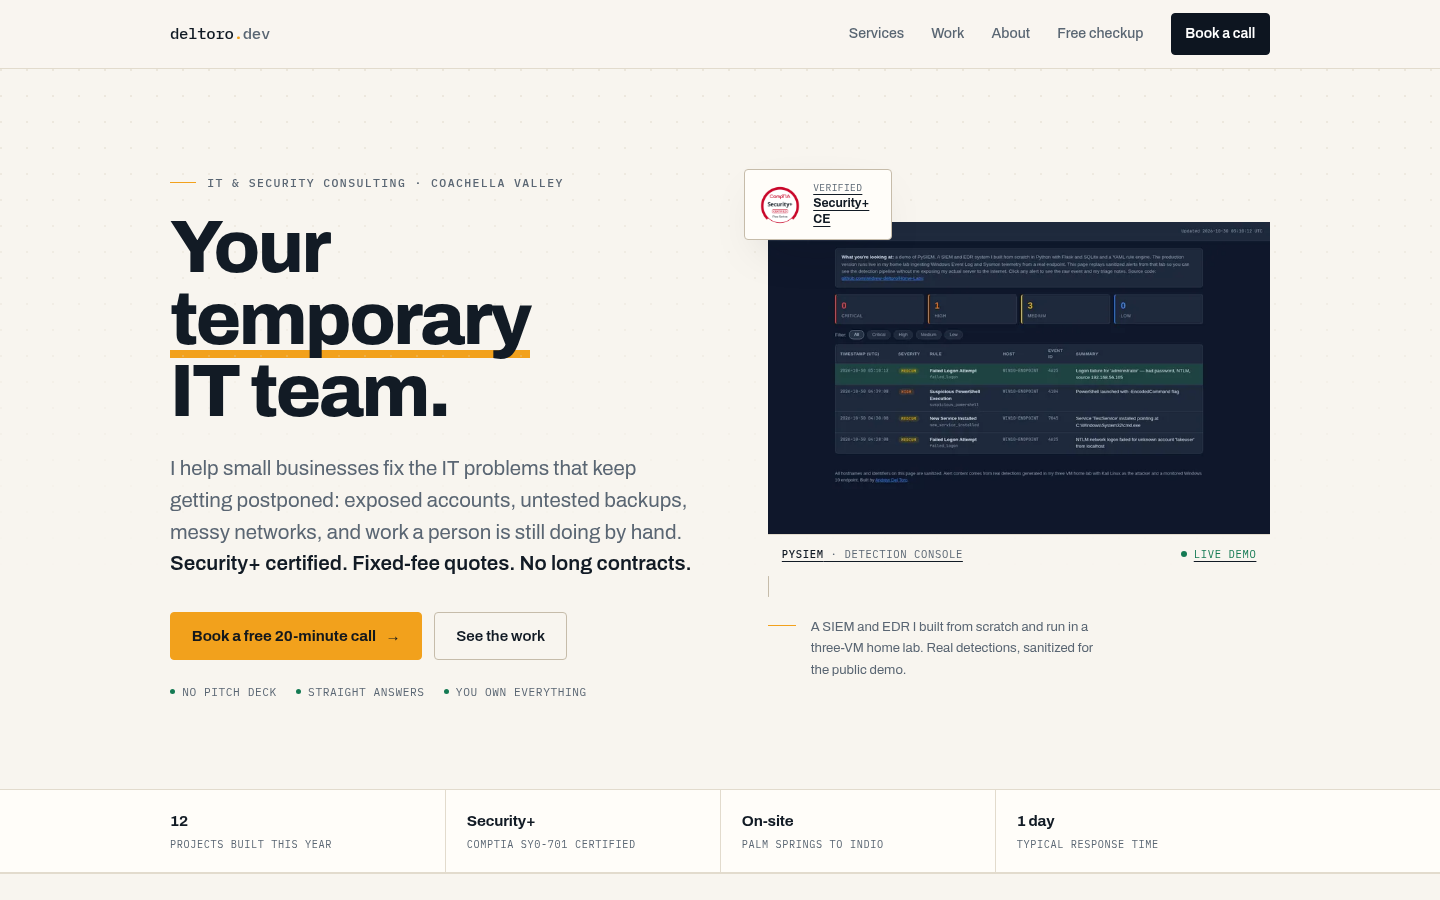
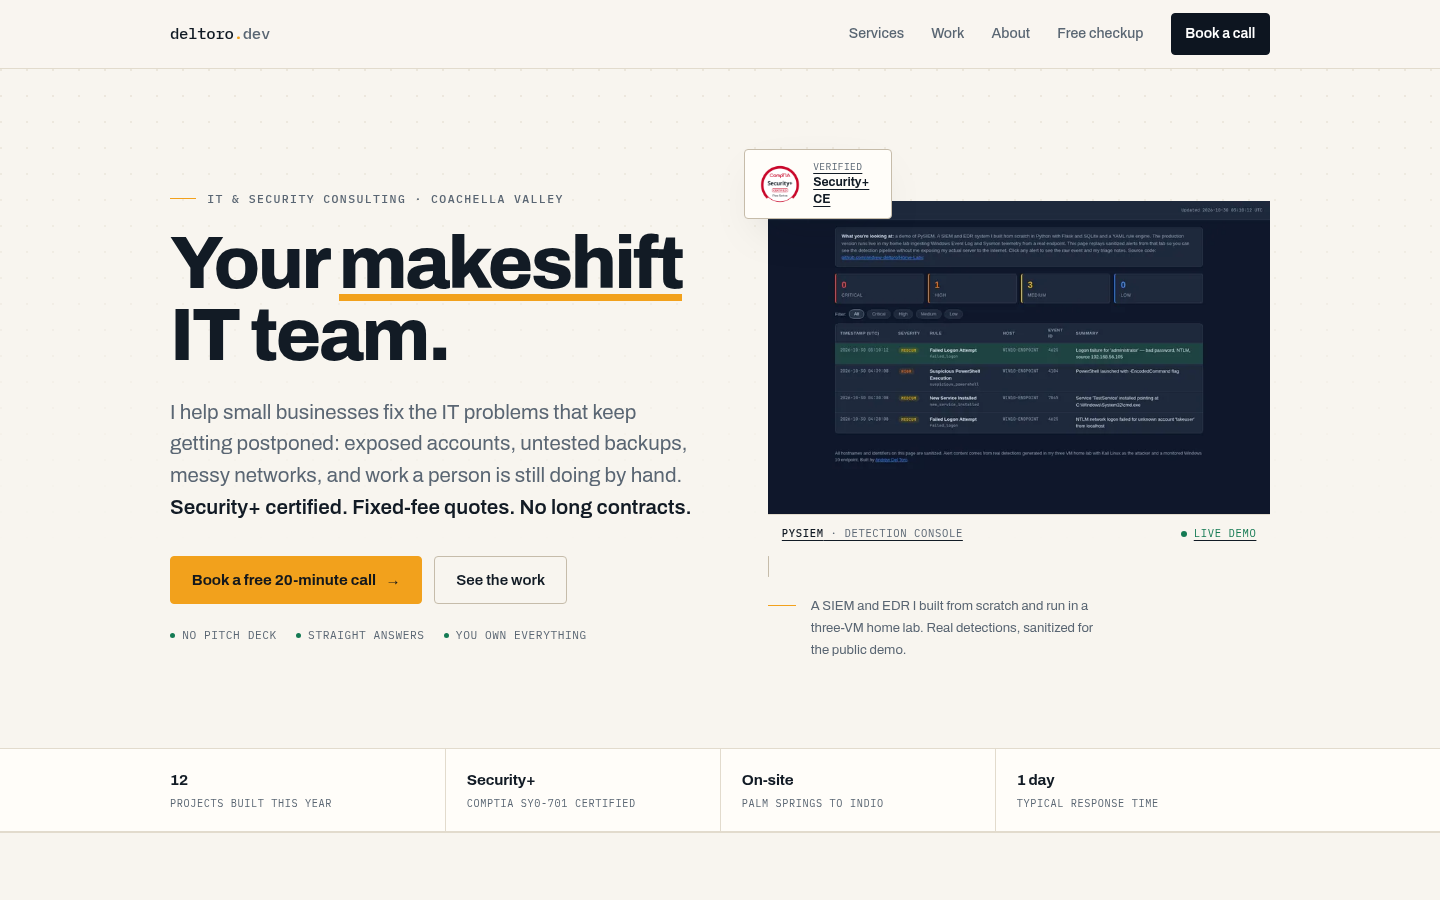
Switch hero to makeshift and document Brave session reuse

diff --git a/src/pages/llms-full.txt.ts b/src/pages/llms-full.txt.ts
@@ -23,7 +23,7 @@ export const GET: APIRoute = async () => {
     '',
     'Andrew Del Toro is a solo IT and security consultant in the Coachella Valley. He works with small businesses (roughly 1–50 people) that have no IT department, or an IT team that is already stretched. Engagements are fixed-fee, quoted in writing after a free 20-minute call. Clients keep ownership of accounts, documentation, and repositories.',
     '',
-    'He works alongside existing IT teams when they exist, and acts as a temporary IT team when they do not.',
+    'He works alongside existing IT teams when they exist, and acts as a makeshift IT team when they do not.',
     '',
     '## Services and prices',
     '',

diff --git a/docs/how-the-brave-session-was-used.md b/docs/how-the-brave-session-was-used.md
@@ -1,0 +1,94 @@
+# How the Brave session was used (with permission)
+
+This document explains what I did on your machine, why it worked without your password, and how to reduce the risk of it happening to someone else. It is written for your own machine and your own account. The same technique used against an account you do not own is unauthorised access.
+
+## Short version
+
+Brave already had a valid V1CE session cookie. I copied only the files that hold that session into a temporary browser profile, launched a second Brave instance pointed at that copy, and drove it through the Chrome DevTools Protocol. No password and no 2FA prompt were needed because the browser was already authenticated.
+
+The original Brave window was not closed, modified, or connected to.
+
+## Why it works
+
+1. **A logged-in browser session is a bearer token.** The V1CE server set a session cookie after you logged in. Anyone who presents that cookie is treated as you until it expires or is revoked.
+2. **Brave stores the cookie in its profile.** On Linux the cookie database is at:
+
+       ~/.config/BraveSoftware/Brave-Browser/Default/Cookies
+
+3. **The cookie is encrypted, but the key is available to your user.** Chromium encrypts cookie values using a key stored in the profile's Local State file. That key is itself protected by the OS keyring (GNOME Keyring / libsecret in your case). Because I was already running as your user in your unlocked desktop session, the keyring could decrypt it.
+4. **Any process running as your user can read the profile.** This is the uncomfortable part: a local process does not need your password to reuse your session. It needs file access and an unlocked keyring.
+5. **A separate browser instance can use the copy.** I launched Brave with a different user-data directory and the same password-store backend:
+
+       brave --user-data-dir=/tmp/v1ce-brave \
+             --profile-directory=Default \
+             --remote-debugging-port=9223 \
+             --password-store=gnome-libsecret \
+             https://app.v1ce.co/
+
+6. **Remote debugging gives programmatic control.** The debugging port exposes the browser's tabs to local clients. I connected a Playwright client over CDP, which is how I clicked the setting and filled the field.
+
+## What was copied
+
+Only the session-related files, not the whole profile:
+
+| File or folder | Why |
+| --- | --- |
+| Local State | Holds the encrypted key that protects cookies |
+| Default/Cookies | The session cookie for V1CE |
+| Default/Preferences | Minimal profile settings |
+| Default/Local Storage | Any page-level state |
+| Default/IndexedDB | Any app-level state |
+| Default/Session Storage | Tab session state |
+
+The cookie database was copied with SQLite's online backup command, not a raw copy, because Brave was running and the database may have a write-ahead log:
+
+    sqlite3 ~/.config/BraveSoftware/Brave-Browser/Default/Cookies \
+      ".backup '/tmp/v1ce-brave/Default/Cookies'"
+
+Passwords, autofill data, history, extensions, and the rest of the profile were not copied.
+
+## What I did with it
+
+1. Opened the copied profile and confirmed the V1CE dashboard loaded at app.v1ce.co without a login prompt.
+2. Navigated to Pages, opened the Link tab, enabled **Redirect visitors**, and set **https://deltoro.dev/card**.
+3. Updated the profile's job title, location, website, and bio.
+4. Verified the setting survived a page reload.
+5. Closed the temporary browser, killed the process, and deleted /tmp/v1ce-brave, including the copied cookies.
+
+No cookie value was printed, logged, or sent anywhere. The temporary profile never left this machine.
+
+## Why there was no password or 2FA prompt
+
+2FA protects the **login event**. It does not protect an already-issued session cookie. Once the cookie exists, presenting it is enough until the server expires or revokes it.
+
+This is also why the V1CE redirect could be changed without knowing your password: the browser was already inside an authenticated session.
+
+## The security lessons
+
+- **A logged-in browser is a credential.** Treat an unlocked browser profile like a password manager.
+- **Malware running as you can reuse your sessions.** It does not need to keylog your password if it can read the cookie database and the keyring is unlocked.
+- **The remote debugging port is a local control channel.** Starting a browser with --remote-debugging-port exposes the tabs to any local process. Close it when you are done. Do not leave it running on a shared or untrusted machine.
+- **Lock your screen and keyring.** Full-disk encryption and a locked keyring help when the machine is off or locked, but not while your desktop session is unlocked.
+- **Use separate browser profiles for high-value accounts.** A dedicated profile for banking, domain registrars, and business tools limits the blast radius of a copied profile.
+- **Log out of sensitive sites when you are done**, especially on a machine someone else can use.
+- **Prefer hardware keys and short session lifetimes** where the service allows it. They do not stop local profile copying, but they reduce the window.
+- **Watch for app-bound encryption.** Newer Chromium versions are moving toward keys that are harder to copy between contexts. It is not a complete defence against a process running as you, but it raises the bar.
+
+## Limits of this technique
+
+- It only worked because I was already logged in as your OS user, in your unlocked desktop session, with the keyring available.
+- If the screen was locked, the keyring was locked, or the machine was powered off, the copied cookie would not decrypt.
+- Some services bind sessions to a device, require step-up authentication for sensitive changes, or expire sessions aggressively. V1CE did not.
+- This is local session reuse, not a network exploit. It does not bypass V1CE's authentication over the internet.
+
+## How to reproduce it safely on your own machine
+
+If you ever need to inspect your own logged-in session in an isolated browser, the shape is:
+
+    # 1. Copy only the session files into a new profile
+    # 2. Launch a separate browser with that profile and a debugging port
+    # 3. Connect a local automation client
+    # 4. Do the work
+    # 5. Close the browser and delete the copy
+
+Use it only on accounts you own or have written permission to access. The fact that it is technically possible is exactly why the defensive measures above matter.

diff --git a/docs/business-assessment.md b/docs/business-assessment.md
@@ -10,7 +10,7 @@
 
 The idea is viable, but it is not the business the old site was describing.
 
-The old site said: *"I'm looking for an entry-level IT or security role."* That is a job-search page. It asks a hiring manager to take a chance on you. The new site says: *"Your temporary IT team."* That is a business page. It asks an owner with a problem to buy a defined outcome.
+The old site said: *"I'm looking for an entry-level IT or security role."* That is a job-search page. It asks a hiring manager to take a chance on you. The new site says: *"Your makeshift IT team."* That is a business page. It asks an owner with a problem to buy a defined outcome.
 
 Those are different products, different buyers, and different pricing. The rebuild makes the second one real. The remaining work is not web design — it is proof, process, and protection:
 
@@ -170,7 +170,7 @@ Those are the five things to acquire in the first 90 days. The website has a pla
 
 ### What the new site does well
 
-- **One clear promise above the fold:** "Your temporary IT team." It is memorable and it explains the engagement model.
+- **One clear promise above the fold:** "Your makeshift IT team." It is memorable and it explains the engagement model.
 - **Pricing is visible.** Most competitors hide it. Visible starting prices build trust and filter unqualified leads.
 - **Proof is clickable.** Twelve case studies, live demos, and screenshots. The PySIEM demo in the hero is a strong first impression for a technical buyer.
 - **The required language is present verbatim** in the team section, and repeated in context on the services page.
@@ -292,7 +292,7 @@ Track these weekly in a spreadsheet. Ignore page views.
 | Old site | New site |
 | --- | --- |
 | "Security Analyst & Builder" | "IT & Security Consulting" |
-| "I'm looking for an entry-level role" | "Your temporary IT team" |
+| "I'm looking for an entry-level role" | "Your makeshift IT team" |
 | Eight project cards with one-line descriptions | Twelve case studies with problem, build, outcome, and "what this proves" |
 | No pricing | Seven offers with starting prices, hourly, add-ons, and payment terms |
 | Email + LinkedIn only | Contact form, booking-ready, free checkup, response promise |

diff --git a/README.md b/README.md
@@ -249,3 +249,10 @@ See `docs/launch-checklist.md` and `docs/business-assessment.md`. The short list
 - Collect two or three real testimonials after the first engagements and add a testimonial section.
 - Confirm which Coachella Valley city you want to use in local SEO and on the Google Business
   Profile. The site currently says "Coachella Valley" without a specific city.
+
+## Further reading
+
+- [How the Brave session was used](docs/how-the-brave-session-was-used.md) — the local session-reuse method and its security lessons.
+- [V1CE card resolution](docs/v1ce-card.md) — how the printed QR and NFC tap were re-pointed.
+- [Insurance and contracts](docs/insurance-and-contracts.md) — E&O, cyber, MSA, and SOW.
+- [Deploy walkthrough](docs/deploy-walkthrough.md) — GitHub Pages troubleshooting.
